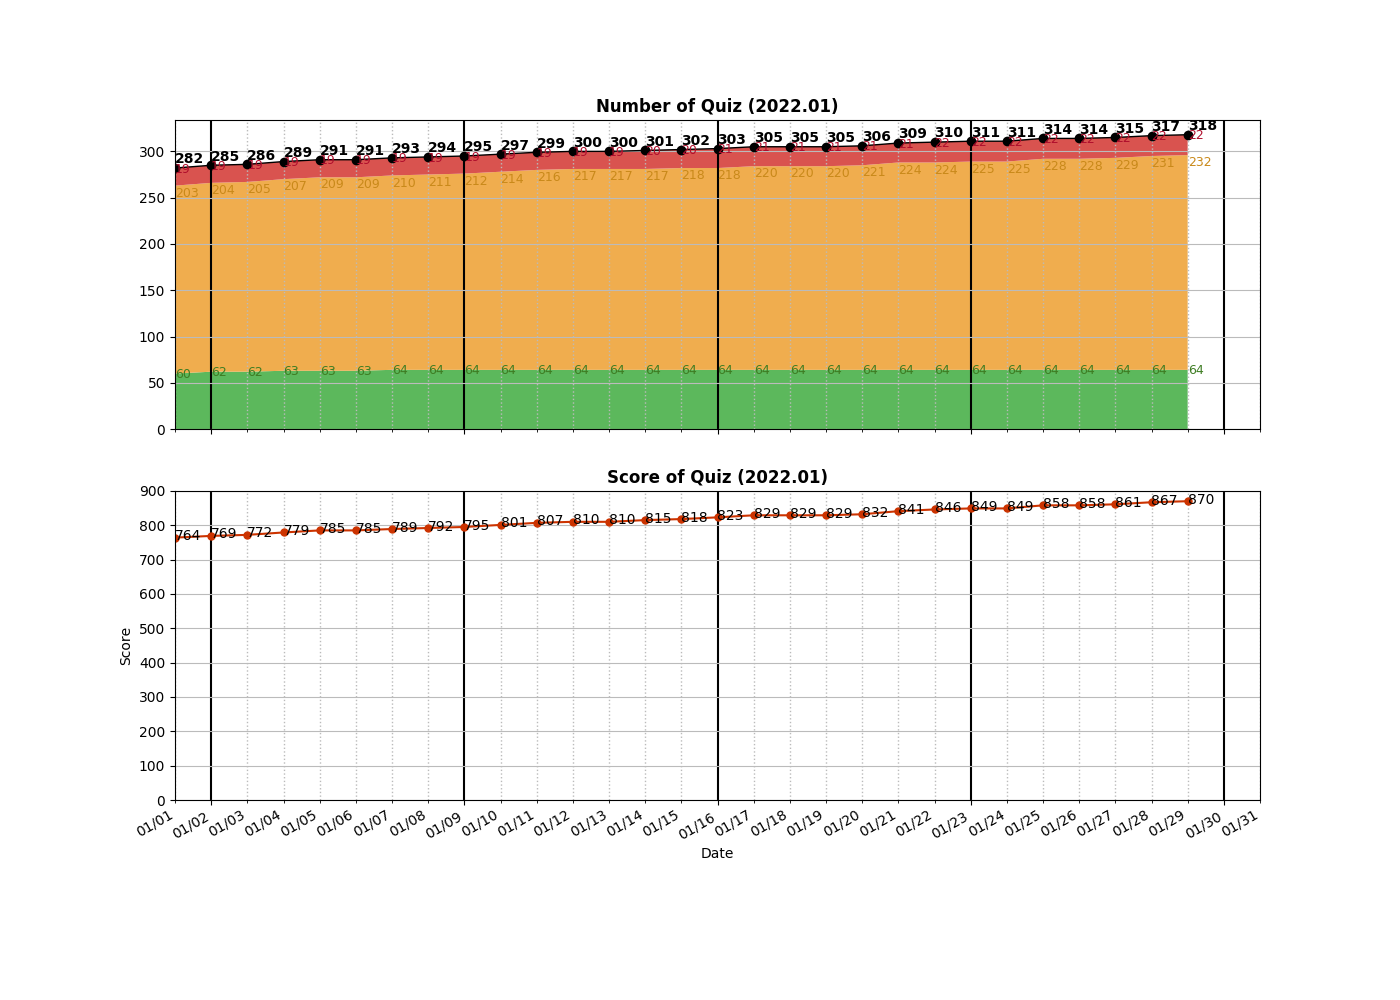
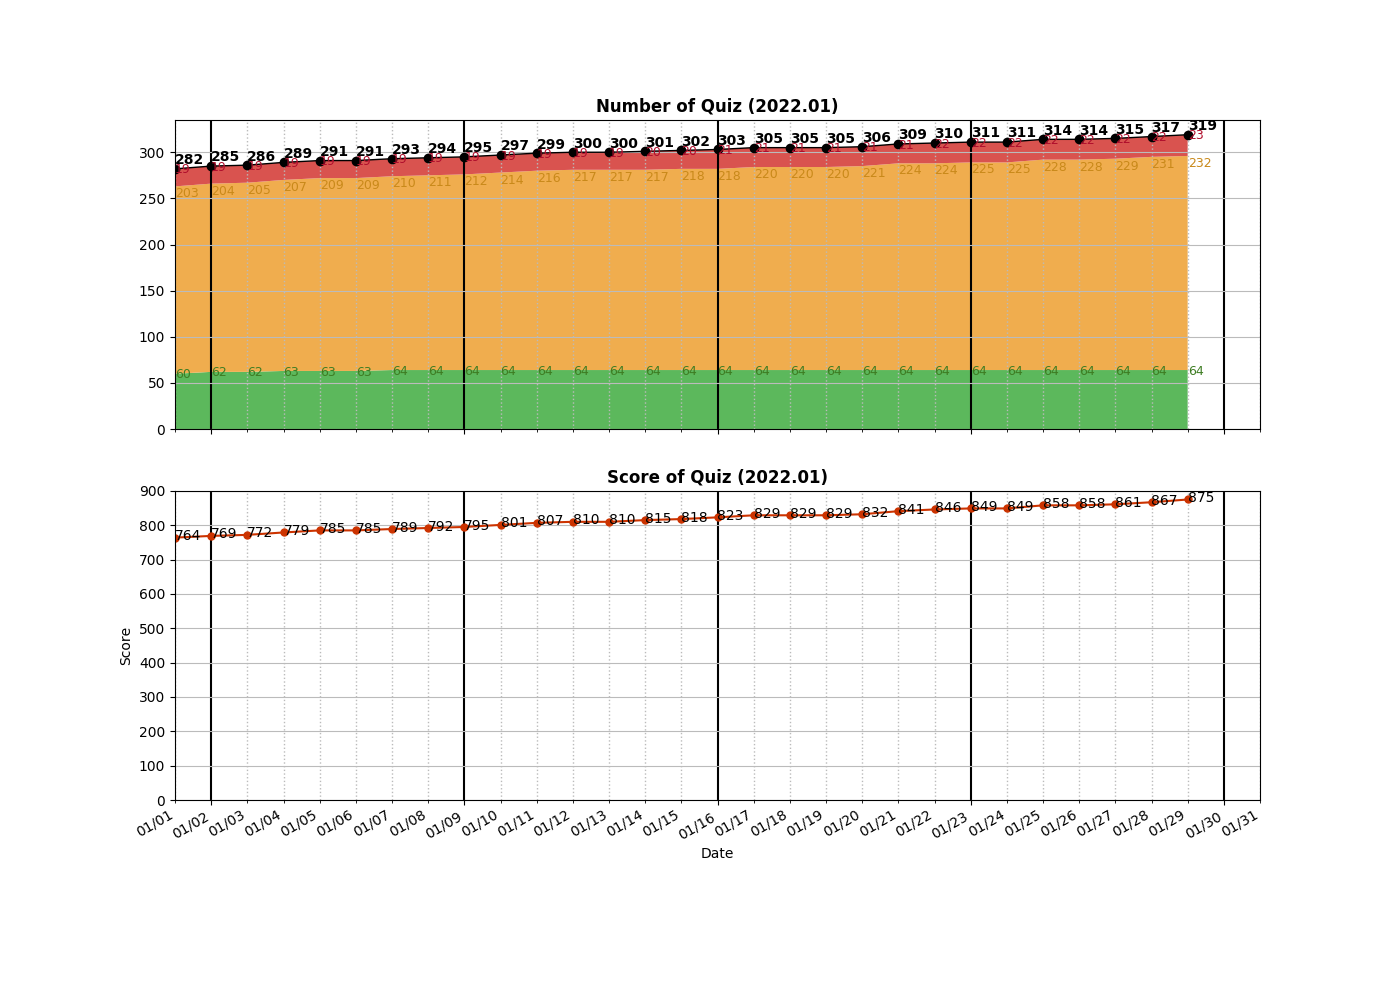
Added __0085__Maximal Rectangle.py

Changed region(s): [[0.1229, 0.124, 0.86, 0.186], [0.8293, 0.496, 0.86, 0.527], [0.0921, 0.186, 0.1229, 0.217]]

diff --git a/algo/Monotonic/__0085__Maximal Rectangle.py b/algo/Monotonic/__0085__Maximal Rectangle.py
@@ -1,0 +1,46 @@
+class Solution:
+    
+    # Prefix Sum + Monotonic Stack [O(MN + N): 23%]
+    def maximalRectangle(self, matrix: List[List[str]]) -> int:
+        m, n = len(matrix), len(matrix[0])
+        row = [[0 for _ in range(n)] for _ in range(m)]
+        
+        for i in range(m):
+            for j in range(n):
+                if j == 0:
+                    row[i][j] = int(matrix[i][j])
+                    continue
+                if matrix[i][j] == '0':
+                    row[i][j] = 0
+                else:
+                    row[i][j] = row[i][j-1] + int(matrix[i][j])
+        
+        # Find largest histogram
+        res = 0 
+        for j in range(n):
+            col = [r[j] for r in row]
+            res = max(res, self.largestRectangleArea(col))
+            
+        return res 
+    
+    def largestRectangleArea(self, heights: List[int]) -> int:
+        mstack = [-1]
+        maxArea = 0
+        for i, v in enumerate(heights):
+            curIdx = 0
+            while mstack[-1] != -1  and heights[mstack[-1]] >= v:
+                curIdx = mstack.pop()
+                area = (i - mstack[-1] - 1) * heights[curIdx]
+                maxArea = max(maxArea, area)
+                #print("(1) ", curIdx - 1, i, heights[curIdx], "->", maxArea)
+            mstack.append(i)
+        
+        #print(mstack)
+        while mstack[-1] != -1:
+            rightIdx = mstack.pop()
+            rightHeight = heights[rightIdx]
+            leftIdx = mstack[-1]
+            area = (len(heights) - leftIdx - 1) * rightHeight
+            maxArea = max(maxArea, area)    
+        #print(heights, "->", maxArea)
+        return maxArea

diff --git a/README.md b/README.md
@@ -216,6 +216,7 @@ algo
 │   └── __0498__Diagonal Traverse.py
 ├── Monotonic
 │   ├── __0084__Largest Rectangle in Histogram.py
+│   ├── __0085__Maximal Rectangle.py
 │   ├── __0456__132 Pattern.py
 │   ├── __0496__Next Greater Element I.py
 │   ├── __0503__Next Greater Element II.py
@@ -357,7 +358,7 @@ algo
     ├── Countries.py
     └── SwitchingArray.py
 
-26 directories, 330 files
+26 directories, 331 files
 
 =====================================
 ============= Local Repo ============
@@ -416,6 +417,7 @@ __0080__Remove Duplicates from Sorted Array II.py
 __0081__Search in Rotated Sorted Array II.py
 __0083__Remove Duplicates from Sorted List.py
 __0084__Largest Rectangle in Histogram.py
+__0085__Maximal Rectangle.py
 __0086__Partition List.py
 __0088__Merge Sorted Array.py
 __0089__Gray Code.py
@@ -681,7 +683,7 @@ __2007__Find Original Array From Doubled Array.py
 __2008__Maximum Earnings From Taxi.py
 __2093__Minimum Cost to Reach City With Discounts.py
 =====================================
-Num of Python Practice:  318
+Num of Python Practice:  319
 
 
 =====================================
@@ -741,6 +743,7 @@ Num of Python Practice:  318
  0081 Search in Rotated Sorted Array II
  0083 Remove Duplicates from Sorted List
  0084 Largest Rectangle in Histogram
+ 0085 Maximal Rectangle
  0086 Partition List
  0088 Merge Sorted Array
  0089 Gray Code
@@ -1008,9 +1011,9 @@ Num of Python Practice:  318
 =====================================
 Solved / Total (Easy)  :   64 /  543
 Solved / Total (Medium):  232 / 1149
-Solved / Total (Hard)  :   22 /  460
-Solved / Total (All)   :  318 / 2152
-Total Score            :  870
+Solved / Total (Hard)  :   23 /  461
+Solved / Total (All)   :  319 / 2153
+Total Score            :  875
 =====================================
 
 ```
